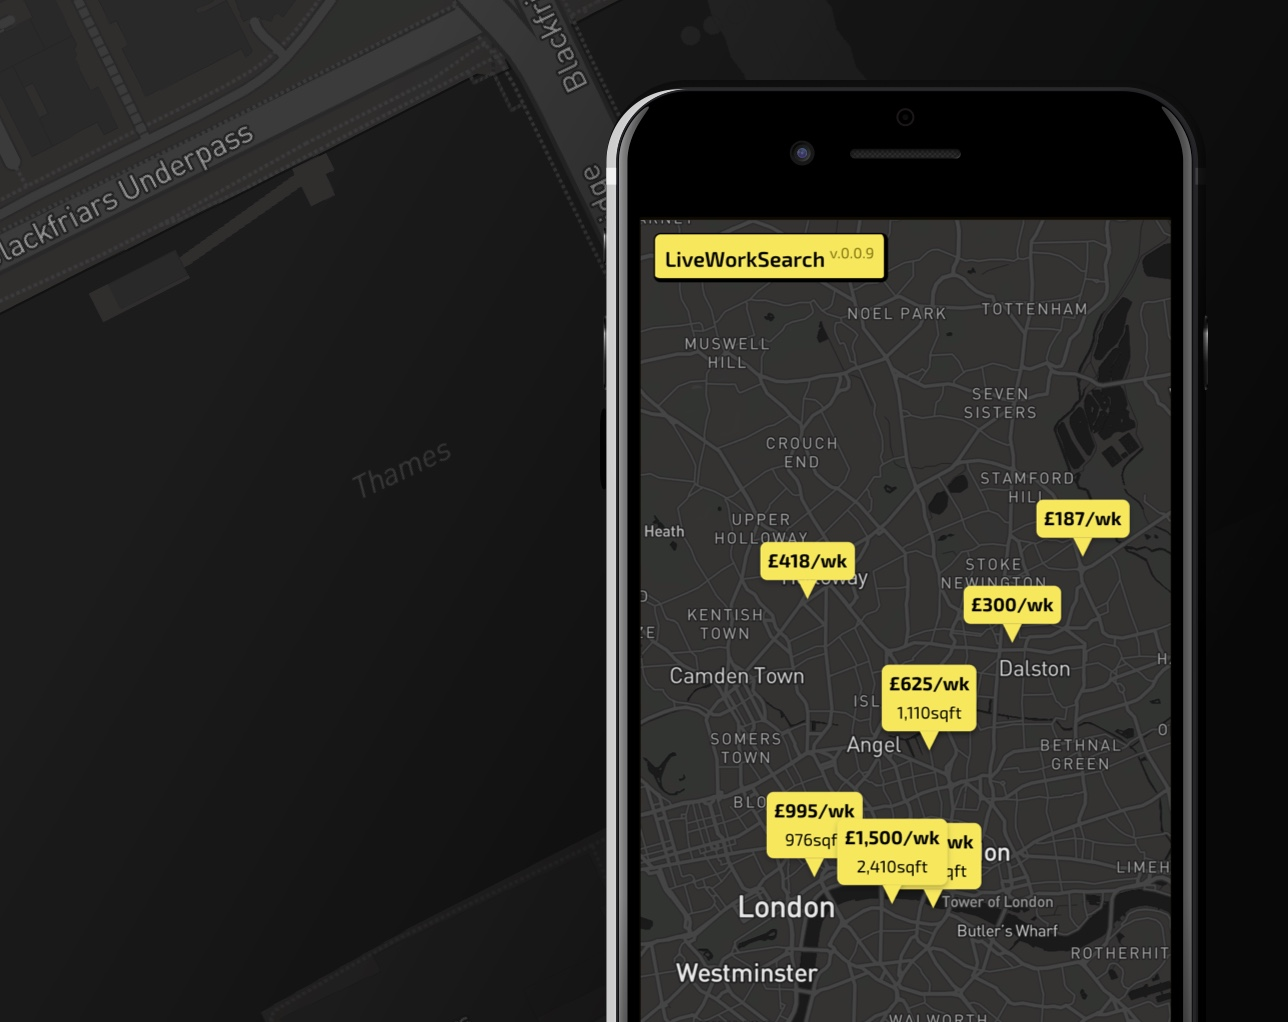
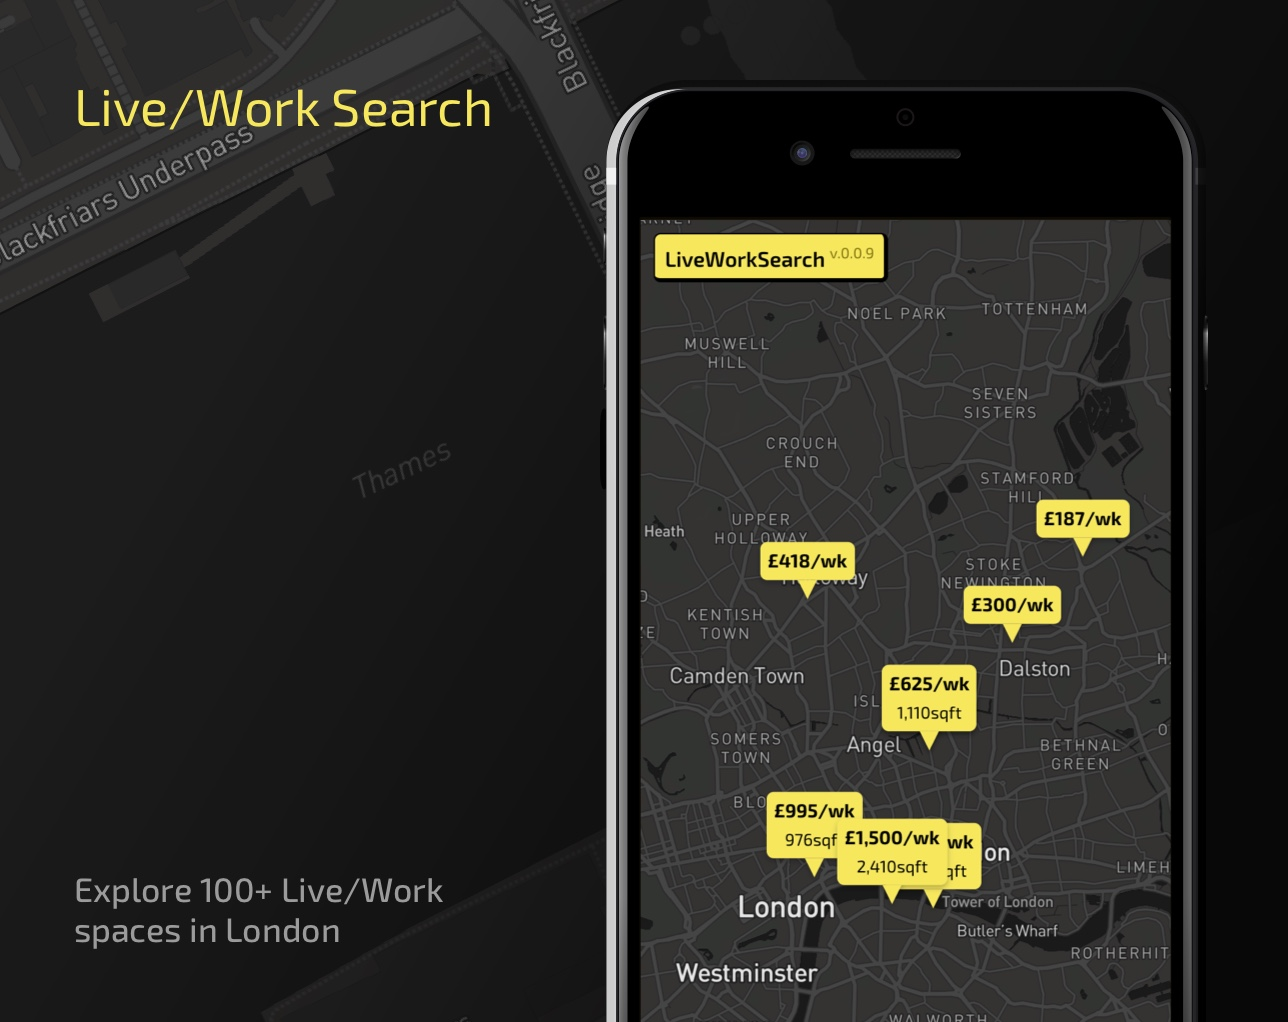
Add more of the front page + tidying

Changed region(s): [[0.0621, 0.8493, 0.3416, 0.9403], [0.0621, 0.091, 0.4037, 0.1213]]

diff --git a/pages/front.js b/pages/front.js
@@ -15,7 +15,7 @@ module.exports = (args) => ({
   available: 2, 
   availableText: ({ available }) => `I'm available from ${monthName(available-1)} ${new Date().getFullYear()}`,
   // Load in the posts and parse with the blog helpers
-  posts: (() => new Promise((resolve) => {
+  posts: new Promise((resolve) => {
     const SUDO = args && args.hasOwnProperty('sudo'); // Add querystring 'sudo' for special access
     allPosts()
       .then(posts => {
@@ -25,21 +25,34 @@ module.exports = (args) => ({
       }).catch(err => {
         throw new Error(err)
       });
-  }))(),
+  }),
   projects: [
     {
       title: 'Live/Work Search',
       url: 'http://liveworksearch.com',
+      cover: '/img/projects/lws-front.jpg',
+      className: 'g4',
       date: 'OCT 2016',
+    },
+    {
+      title: 'Ripcast',
+      url: 'http://ripcast.in',
+      cover: '/img/projects/ripcast-front.jpg',
+      className: 'g2',
+      date: 'AUG 2017',
     },
     {
       title: 'Just A-level',
       url: 'https://justalevel.com',
+      cover: '/img/projects/jal-front.jpg',
+      className: 'g3',
       date: 'JUL 2017',
     },
     {
       title: 'Beachfix',
       url: 'http://beachfix.co',
+      cover: '/img/projects/beachfix-front.jpg',
+      className: 'g3',
       date: 'OCT 2016',
     },
   ]

diff --git a/js/store.js b/js/store.js
@@ -44,6 +44,7 @@ const updateIndex = (key, fragment) => {
  *         {string} store.key - the key for this instance.
  *         {string} store.initialState - the original initialState object for this instance.
  *         {func}   store.update<object> - pass a fragment of state to update.
+ *         {func}   store.get - get state
  */
 export const store = (key, initialState) => {
   addIndex(key, initialState);

diff --git a/views/front/front.scss b/views/front/front.scss
@@ -191,3 +191,31 @@ a {
 }
 
 // Work section
+.front-work {
+  
+}
+
+.front-work-grid {
+  display: flex;
+  flex-flow: row wrap;
+}
+
+a.front-project {
+  background: none;
+}
+
+.front-project {
+  margin-bottom: m(1);
+  
+  img {
+    display: block;
+    width: 100%;
+    height: auto;
+  }
+  
+  &:nth-child(2n+2) {
+    @include media(m) {
+      margin-left: m(1);
+    }
+  }
+}

diff --git a/scss/_g.scss b/scss/_g.scss
@@ -11,6 +11,10 @@ $g-max-width: $g-column * $g-columns + $g-margin * ($g-columns - 1);
   @return ($g-column * $index) + $g-margin * ($index - 1);
 }
 
+@function m($index) {
+  @return $g-margin * $index;
+}
+
 // Create the grid class names
 @for $g-i from 1 through $g-columns {
   .g#{$g-i} {
